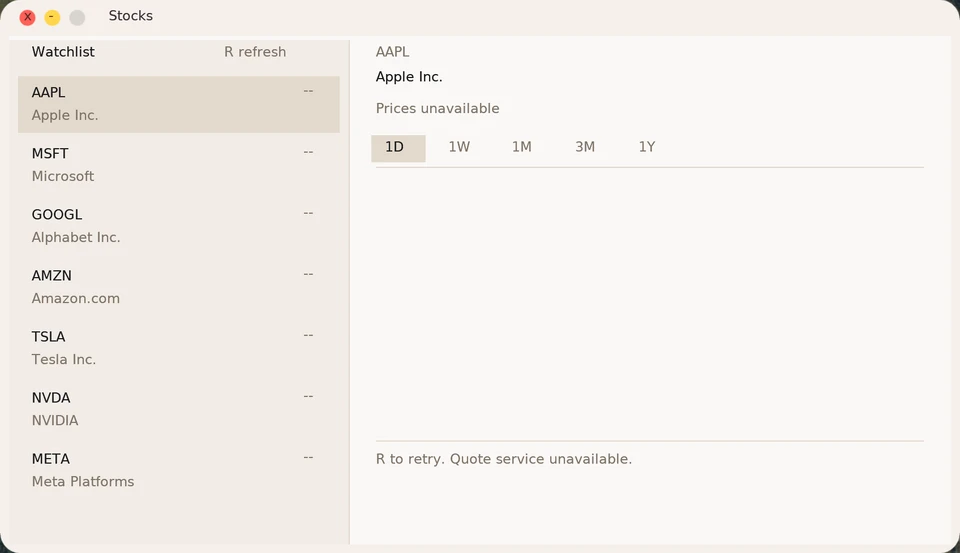
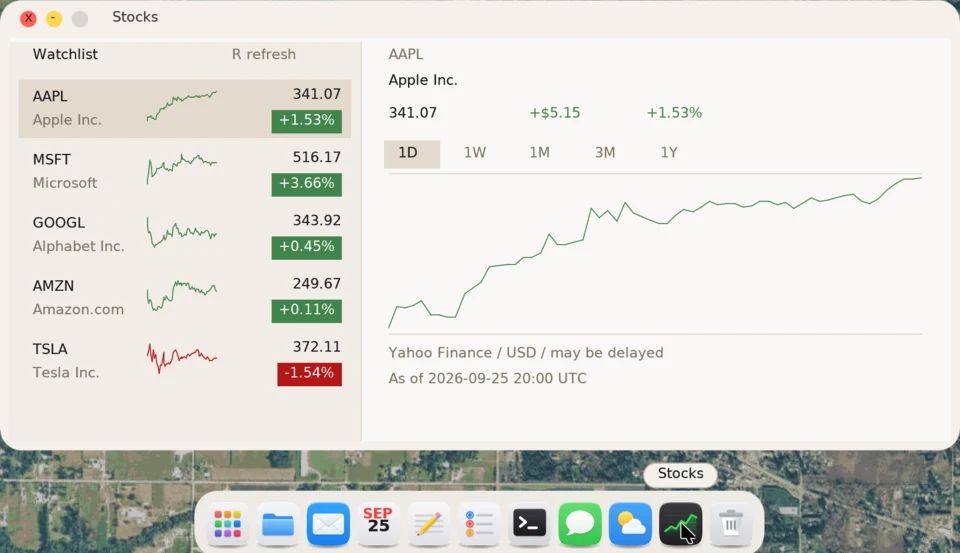
1.5.16: live Stocks and Weather landing shots (#212)
* 1.5.16: Stocks and Weather landing shots from the live demo

Real quotes and real weather instead of an offline capture.

Claude-Session: https://claude.ai/code/session_01CaiUTqFcDgfy9HconXDg4u

* roadmap: rich document app and richer Weather icons + type moved up

Claude-Session: https://claude.ai/code/session_01CaiUTqFcDgfy9HconXDg4u

---------

diff --git a/landing/index.html b/landing/index.html
@@ -401,7 +401,7 @@
   <div class="facts-row">
     <div class="fact"><strong><span data-fact="apps">25</span></strong><span class="label">Apps</span></div>
     <div class="fact"><a class="fact-link" href="https://github.com/nulljosh/joshuatree/blob/main/docs/ARCHITECTURE.md"><strong><span data-fact="documented">100</span>%</strong><span class="label">Documented</span></a></div>
-    <div class="fact"><strong>v<span data-fact="version">1.5.15</span></strong><span class="label">Version</span></div>
+    <div class="fact"><strong>v<span data-fact="version">1.5.16</span></strong><span class="label">Version</span></div>
   </div>
   <div class="boot-cta">
     <a class="boot-btn" href="https://github.com/nulljosh/joshuatree/releases">Download for a USB stick</a>
@@ -433,7 +433,7 @@
       <p>Calendar. See your days and your plans at a glance.</p>
     </div>
     <div class="tile">
-      <img src="shots/app-weather.webp" alt="Weather app showing today's forecast" loading="lazy" width="480" height="276">
+      <img src="shots/app-weather.webp" alt="Weather app showing live current conditions and a 5-day forecast" loading="lazy" width="480" height="276">
       <p>Weather. Know what to wear before you walk out.</p>
     </div>
     <div class="tile">
@@ -445,7 +445,7 @@
       <p>Terminal. Type a command and it answers back.</p>
     </div>
     <div class="tile">
-      <img src="shots/app-stocks.webp" alt="Stocks app showing a watchlist" loading="lazy" width="480" height="276">
+      <img src="shots/app-stocks.webp" alt="Stocks app showing live quotes and an intraday chart" loading="lazy" width="480" height="276">
       <p>Stocks. Keep an eye on a watchlist without leaving the desktop.</p>
     </div>
   </div>
@@ -479,7 +479,7 @@
   #progress-chart-live .progress-pt:focus { outline: none; }
 </style><rect width="100%" height="100%" fill="var(--bg)"/><line x1="17" y1="10" x2="437" y2="10" stroke="var(--grid)"/><line x1="17" y1="80" x2="437" y2="80" stroke="var(--grid)"/><text x="13" y="13" font-size="9" fill="var(--muted)" text-anchor="end">25</text><text x="13" y="83" font-size="9" fill="var(--muted)" text-anchor="end">12</text><text x="13" y="153" font-size="9" fill="var(--muted)" text-anchor="end">0</text><line x1="17" y1="10" x2="17" y2="150" stroke="var(--axis)"/><line x1="17" y1="150" x2="437" y2="150" stroke="var(--axis)"/><polyline points="17,150 27,150 37,150 47,150 57,150 68,150 78,150 88,150 98,150 109,150 119,150 129,111 139,111 150,106 160,106 170,106 180,66 191,66 201,61 211,50 221,50 232,50 242,38 252,33 262,33 273,33 283,33 293,33 303,33 314,33 324,33 334,33 344,33 355,22 365,22 375,16 385,10 396,10 406,10 416,10 426,10 437,10" fill="none" stroke="var(--line)" stroke-width="2.5" stroke-linejoin="round" stroke-linecap="round"/><g class="progress-pt" tabindex="0" role="img" aria-label="Aug 31, 0 apps shipped" data-tooltip="Aug 31 &#183; 0 apps"><circle class="progress-hit" cx="17" cy="150" r="11" fill="transparent"/><circle class="progress-dot" cx="17" cy="150" r="3" fill="var(--bg)" stroke="var(--line2)" stroke-width="2"/></g><g class="progress-pt" tabindex="0" role="img" aria-label="Sep 13, 0 apps shipped" data-tooltip="Sep 13 &#183; 0 apps"><circle class="progress-hit" cx="57" cy="150" r="11" fill="transparent"/><circle class="progress-dot" cx="57" cy="150" r="3" fill="var(--bg)" stroke="var(--line2)" stroke-width="2"/></g><g class="progress-pt" tabindex="0" role="img" aria-label="Sep 13, 0 apps shipped" data-tooltip="Sep 13 &#183; 0 apps"><circle class="progress-hit" cx="98" cy="150" r="11" fill="transparent"/><circle class="progress-dot" cx="98" cy="150" r="3" fill="var(--bg)" stroke="var(--line2)" stroke-width="2"/></g><g class="progress-pt" tabindex="0" role="img" aria-label="Sep 13, 7 apps shipped" data-tooltip="Sep 13 &#183; 7 apps"><circle class="progress-hit" cx="139" cy="111" r="11" fill="transparent"/><circle class="progress-dot" cx="139" cy="111" r="3" fill="var(--bg)" stroke="var(--line2)" stroke-width="2"/></g><g class="progress-pt" tabindex="0" role="img" aria-label="Sep 14, 15 apps shipped" data-tooltip="Sep 14 &#183; 15 apps"><circle class="progress-hit" cx="180" cy="66" r="11" fill="transparent"/><circle class="progress-dot" cx="180" cy="66" r="3" fill="var(--bg)" stroke="var(--line2)" stroke-width="2"/></g><g class="progress-pt" tabindex="0" role="img" aria-label="Sep 14, 18 apps shipped" data-tooltip="Sep 14 &#183; 18 apps"><circle class="progress-hit" cx="221" cy="50" r="11" fill="transparent"/><circle class="progress-dot" cx="221" cy="50" r="3" fill="var(--bg)" stroke="var(--line2)" stroke-width="2"/></g><g class="progress-pt" tabindex="0" role="img" aria-label="Sep 15, 21 apps shipped" data-tooltip="Sep 15 &#183; 21 apps"><circle class="progress-hit" cx="262" cy="33" r="11" fill="transparent"/><circle class="progress-dot" cx="262" cy="33" r="3" fill="var(--bg)" stroke="var(--line2)" stroke-width="2"/></g><g class="progress-pt" tabindex="0" role="img" aria-label="Sep 16, 21 apps shipped" data-tooltip="Sep 16 &#183; 21 apps"><circle class="progress-hit" cx="303" cy="33" r="11" fill="transparent"/><circle class="progress-dot" cx="303" cy="33" r="3" fill="var(--bg)" stroke="var(--line2)" stroke-width="2"/></g><g class="progress-pt" tabindex="0" role="img" aria-label="Sep 20, 21 apps shipped" data-tooltip="Sep 20 &#183; 21 apps"><circle class="progress-hit" cx="344" cy="33" r="11" fill="transparent"/><circle class="progress-dot" cx="344" cy="33" r="3" fill="var(--bg)" stroke="var(--line2)" stroke-width="2"/></g><g class="progress-pt" tabindex="0" role="img" aria-label="Sep 22, 25 apps shipped" data-tooltip="Sep 22 &#183; 25 apps"><circle class="progress-hit" cx="385" cy="10" r="11" fill="transparent"/><circle class="progress-dot" cx="385" cy="10" r="3" fill="var(--bg)" stroke="var(--line2)" stroke-width="2"/></g><g class="progress-pt" tabindex="0" role="img" aria-label="Sep 25, 25 apps shipped" data-tooltip="Sep 25 &#183; 25 apps"><circle class="progress-hit" cx="426" cy="10" r="11" fill="transparent"/><circle class="progress-dot" cx="426" cy="10" r="3" fill="var(--bg)" stroke="var(--line2)" stroke-width="2"/></g><g class="progress-pt" tabindex="0" role="img" aria-label="Sep 25, 25 apps shipped" data-tooltip="Sep 25 &#183; 25 apps"><circle class="progress-hit" cx="437" cy="10" r="11" fill="transparent"/><circle class="progress-dot" cx="437" cy="10" r="3" fill="var(--bg)" stroke="var(--line2)" stroke-width="2"/></g><text x="17" y="166" font-size="10" fill="var(--label)" text-anchor="middle">Aug 31</text><text x="180" y="166" font-size="10" fill="var(--label)" text-anchor="middle">Sep 14</text><text x="262" y="166" font-size="10" fill="var(--label)" text-anchor="middle">Sep 15</text><text x="314" y="166" font-size="10" fill="var(--label)" text-anchor="middle">Sep 19</text><text x="375" y="166" font-size="10" fill="var(--label)" text-anchor="middle">Sep 22</text><text x="426" y="166" font-size="10" fill="var(--label)" text-anchor="middle">Sep 25</text><text x="17" y="184" font-size="14" fill="var(--muted)">25 apps &#183; 100% documented</text></svg>
 <!-- progress-chart:end -->
-    <!-- roadmap-summary:start --><p class="roadmap-next">Next up: watch each app work, a word processor, and a code editor.</p><!-- roadmap-summary:end -->
+    <!-- roadmap-summary:start --><p class="roadmap-next">Next up: watch each app work, a word processor, and nicer weather art.</p><!-- roadmap-summary:end -->
   </div>
 </section>
 

diff --git a/docs/roadmap.md b/docs/roadmap.md
@@ -203,10 +203,11 @@ The OS stays free. Monetization is custom hardware built to run it. Everything t
 Feeds the landing page's "Where it's going" card automatically via `tools/gen/landing-roadmap.py`. Keep titles short, bold, and current. Each item also needs a `(plain: ...)` phrase right after the title, a few plain words a 20-year-old visitor would understand with zero dev background — that phrase is what actually shows on the landing page, never the dev title. Internal refactor work that a visitor has no way to try (nothing to click, nothing that looks different) uses `(plain: skip)`, which the generator drops from the card entirely instead of translating it into vague visitor-facing words.
 1. **Portfolio apps get real demos** (plain: watch each app work) [Sonnet]: picking an app in portfolio mode only shows its URL today. Play a short scripted walkthrough instead: the ported snapshot where one exists, an auto-played tour otherwise. Start with the five homepage picks. Joshua's note, 2026-09-25: "apps aren't really demo'd, just opened". Target: weekend of 2026-09-26.
 2. **Check the portfolio in X's in-app browser** (plain: skip) [Haiku]: `?full` now boots right away instead of waiting on an IntersectionObserver. Confirm on a phone by opening heyitsmejosh.com from a post in the X app. If it still hangs, capture what shows.
-3. **Split kernel.c into per-subsystem files** (plain: skip) [Sonnet]: ~7,800 lines, the one god file left here. Don't combine with other kernel.c work. Internal refactor only, nothing a visitor can see or try, so it's excluded from the landing card.
-4. **Rich document app** (plain: a word processor) [Sonnet]: Word/Pages-style paragraph and run formatting, distinct from Notes (which stays plain text).
-5. **Native code editor** (plain: a code editor) [Sonnet]: syntax highlighting for the native editor app.
-6. **Package/install tool** (plain: apps you can install) [Sonnet]: a fetch-and-install tool over this kernel's own HTTP client.
+3. **Rich document app** (plain: a word processor) [Sonnet]: Word/Pages-style paragraph and run formatting, distinct from Notes (which stays plain text).
+4. **Richer Weather icons** (plain: nicer weather art) [Sonnet]: Joshua's note, 2026-09-25: "that cloud icon is nice, bump it". Carry the big current-conditions cloud's shaded style into every glyph: sun, rain, snow, fog, storm, larger and layered, in the forecast cards and the menu bar too. Same pass for the temperature type: the big reading in the real TTF display face with a proper degree sign and optical C/F unit, and the menu bar's "14∘" drawn with a real degree glyph at the right size and baseline.
+5. **Split kernel.c into per-subsystem files** (plain: skip) [Sonnet]: ~7,800 lines, the one god file left here. Don't combine with other kernel.c work. Internal refactor only, nothing a visitor can see or try, so it's excluded from the landing card.
+6. **Native code editor** (plain: a code editor) [Sonnet]: syntax highlighting for the native editor app.
+7. **Package/install tool** (plain: apps you can install) [Sonnet]: a fetch-and-install tool over this kernel's own HTTP client.
 
 ## Landing roadmap summary
 `tools/gen/landing-roadmap.py` reads this file's Session task queue and takes up to three open, numbered, bold task titles for the landing page's "Where it's going" card, skipping completed entries and escaping for HTML. `tools/checks/landing-roadmap-check.py` and `tools/gen/landing-roadmap.py --check` are the regression checks. A roadmap change triggers the landing deploy workflow, which regenerates the card before upload.
